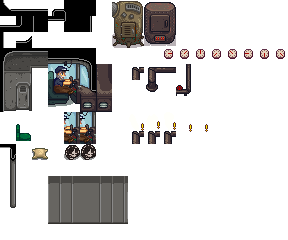
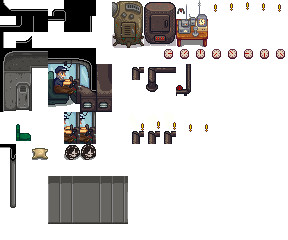
Added exclamation mark to GPS computer when ready

diff --git a/FishingTrawler/Framework/GameLocations/TrawlerCabin.cs b/FishingTrawler/Framework/GameLocations/TrawlerCabin.cs
@@ -16,6 +16,7 @@ namespace FishingTrawler.GameLocations
     {
         private List<Location> _computerLocations;
 
+        private const int TRAWLER_TILESHEET_INDEX = 2;
         private const float BASE_COMPUTER_MILLISECONDS = 60000f;
         private const float CYCLE_COMPUTER_MILLISECONDS = 30000f;
 
@@ -75,6 +76,11 @@ namespace FishingTrawler.GameLocations
             if (IsComputerReady() is false)
             {
                 _computerCooldownMilliseconds -= time.ElapsedGameTime.TotalMilliseconds;
+                setMapTileIndex(3, 2, -1, "Front", TRAWLER_TILESHEET_INDEX);
+            }
+            else
+            {
+                setAnimatedMapTile(3, 2, new int[] { 13, 14, 15, 16, 17 }, 90, "Front", null, TRAWLER_TILESHEET_INDEX);
             }
         }
 
